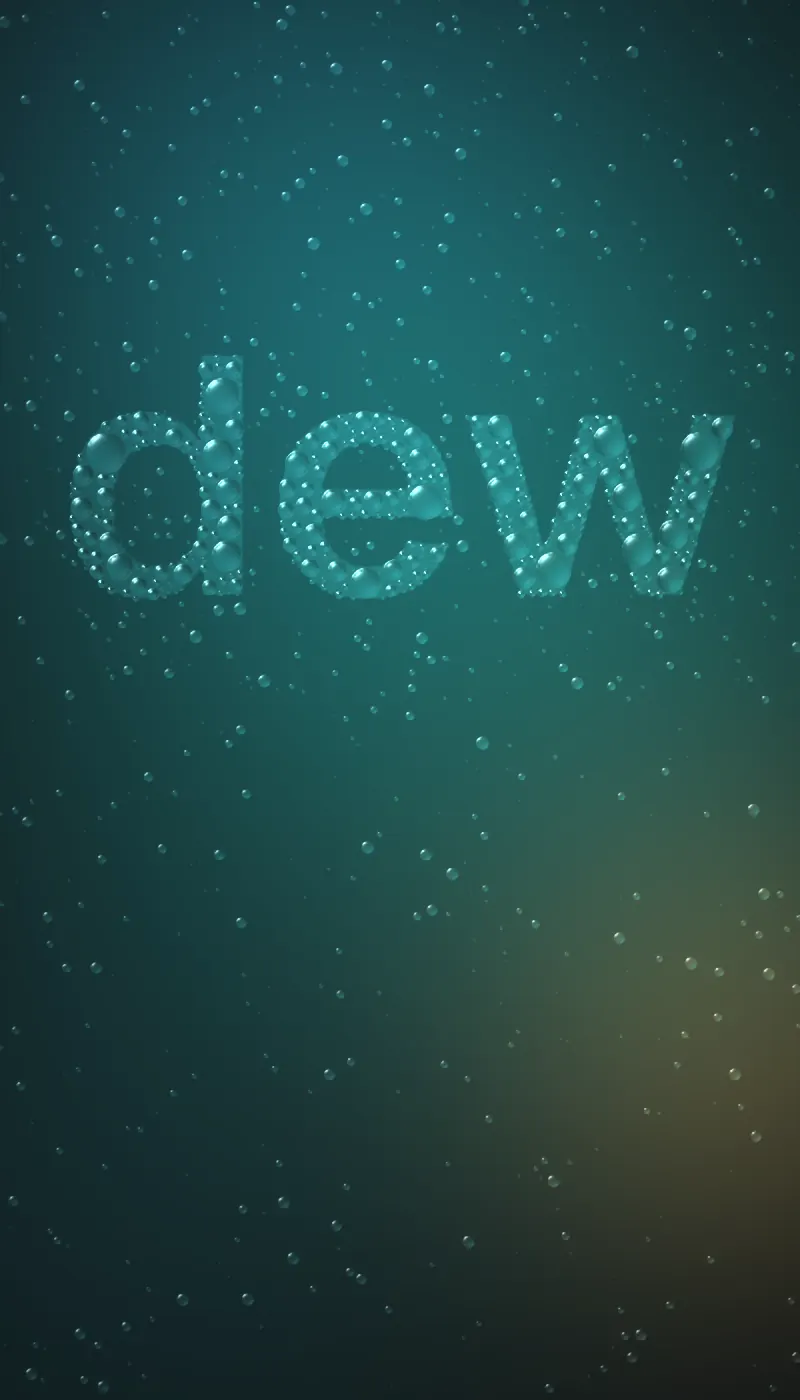
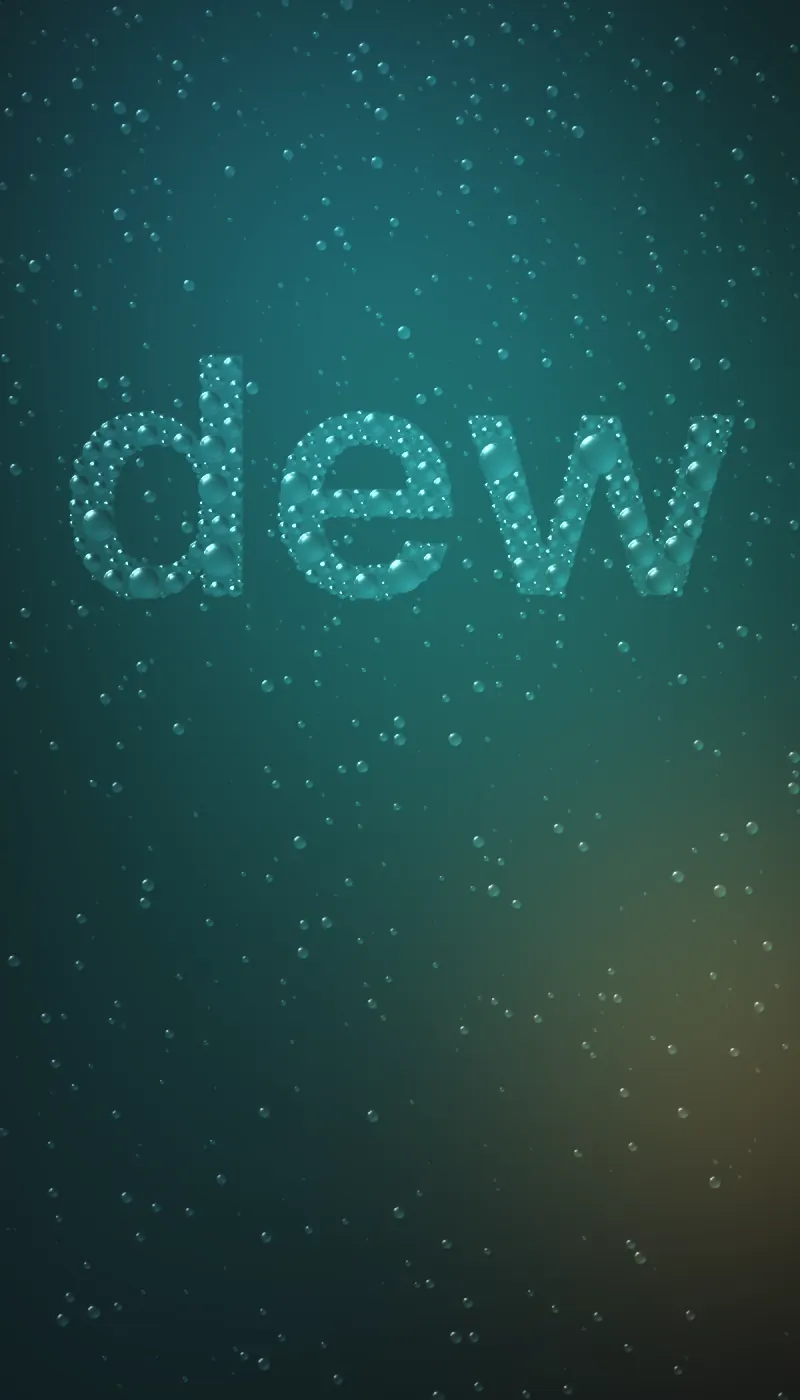
fix(site): in the light theme the condensation's drops are darker lenses with darker rims
Against the bright pane the drops only showed their highlights, and the
word read faintly. The light palette now darkens what a drop shows and
its steep rim, as water on a window does in daylight; the still frames
are captured again.

diff --git a/site/src/hero/condensation.ts b/site/src/hero/condensation.ts
@@ -399,8 +399,9 @@ const PALETTES: Record<Theme, Palette> = {
 			[0.02, -0.08, -0.2],
 			[-0.12, -0.05, -0.06],
 		],
-		lens: 1.0,
-		rim: 0.5,
+		// Against a bright pane a drop reads by its darker lens and rim.
+		lens: 0.86,
+		rim: 0.66,
 		spec: [0.5, 0.55, 0.55],
 		bounce: [0.04, 0.12, 0.11],
 		fog: [0.64, 0.665, 0.665],
